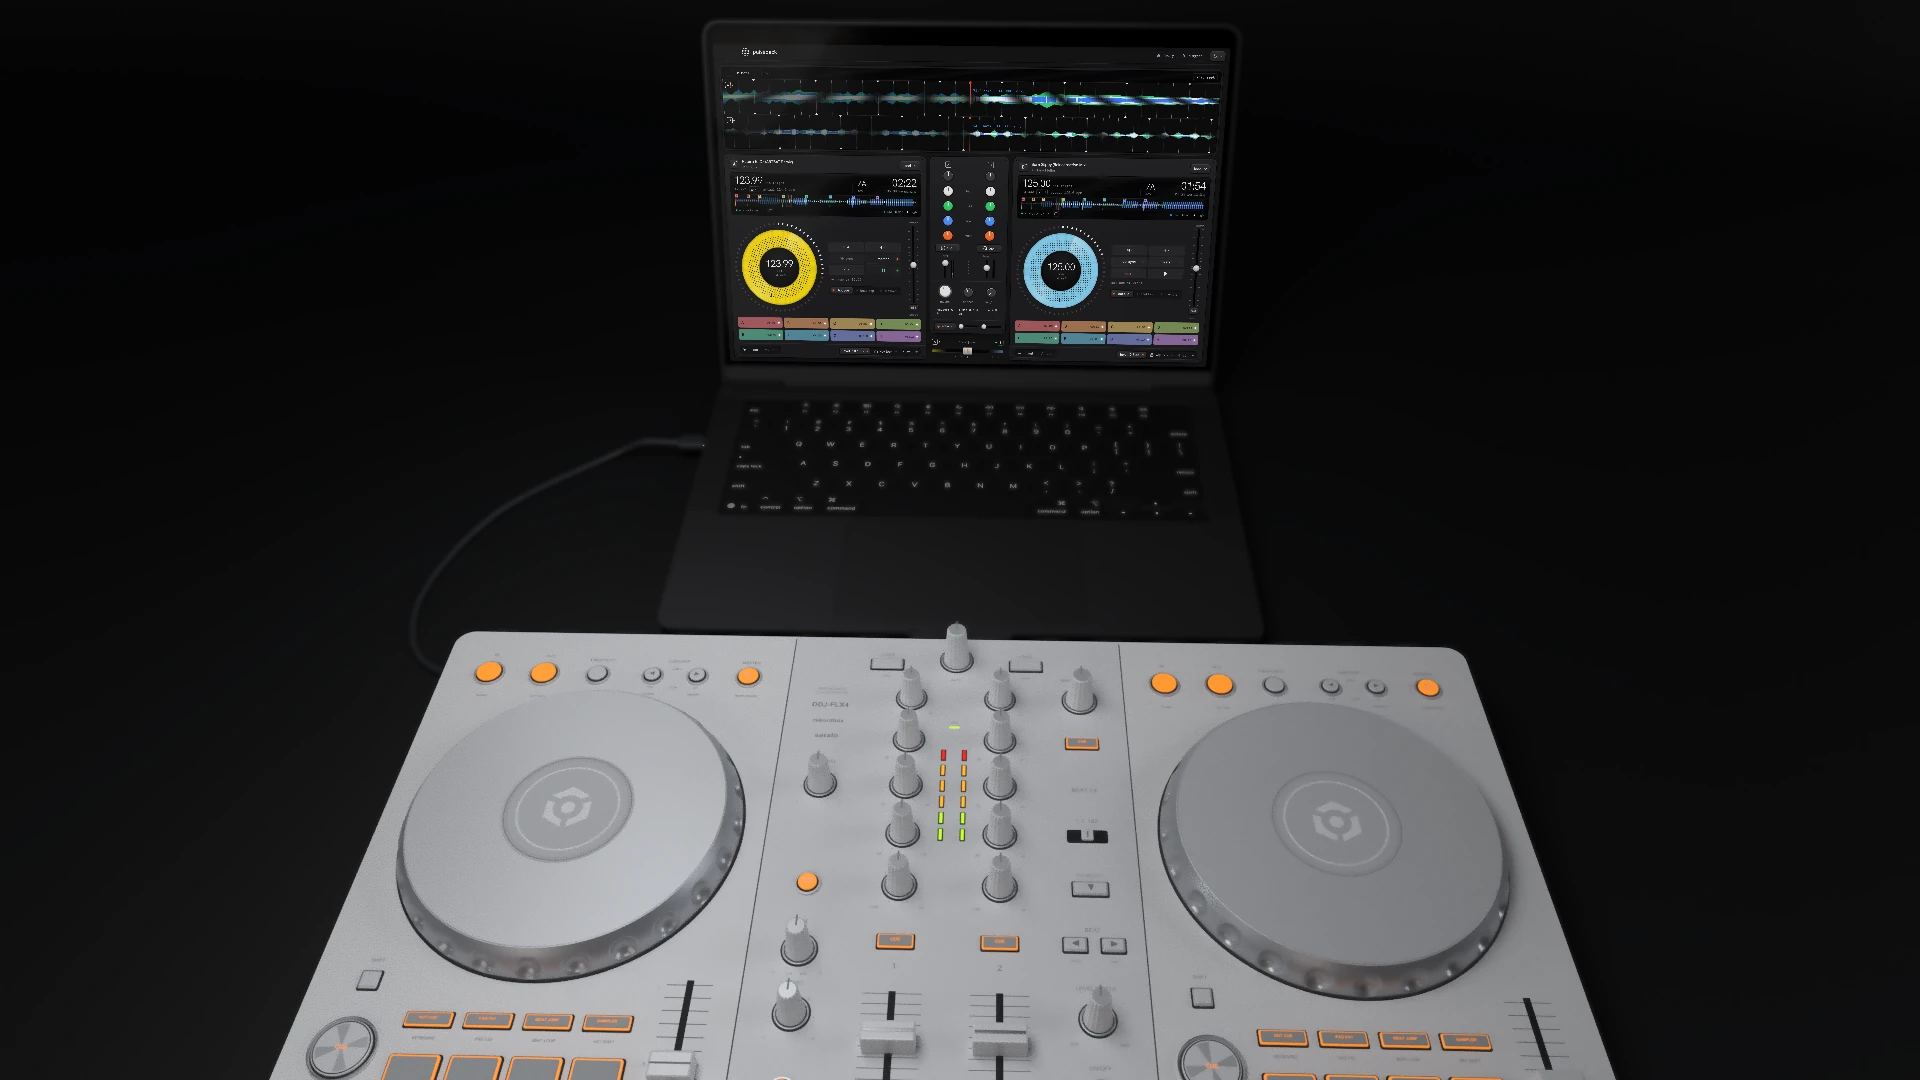
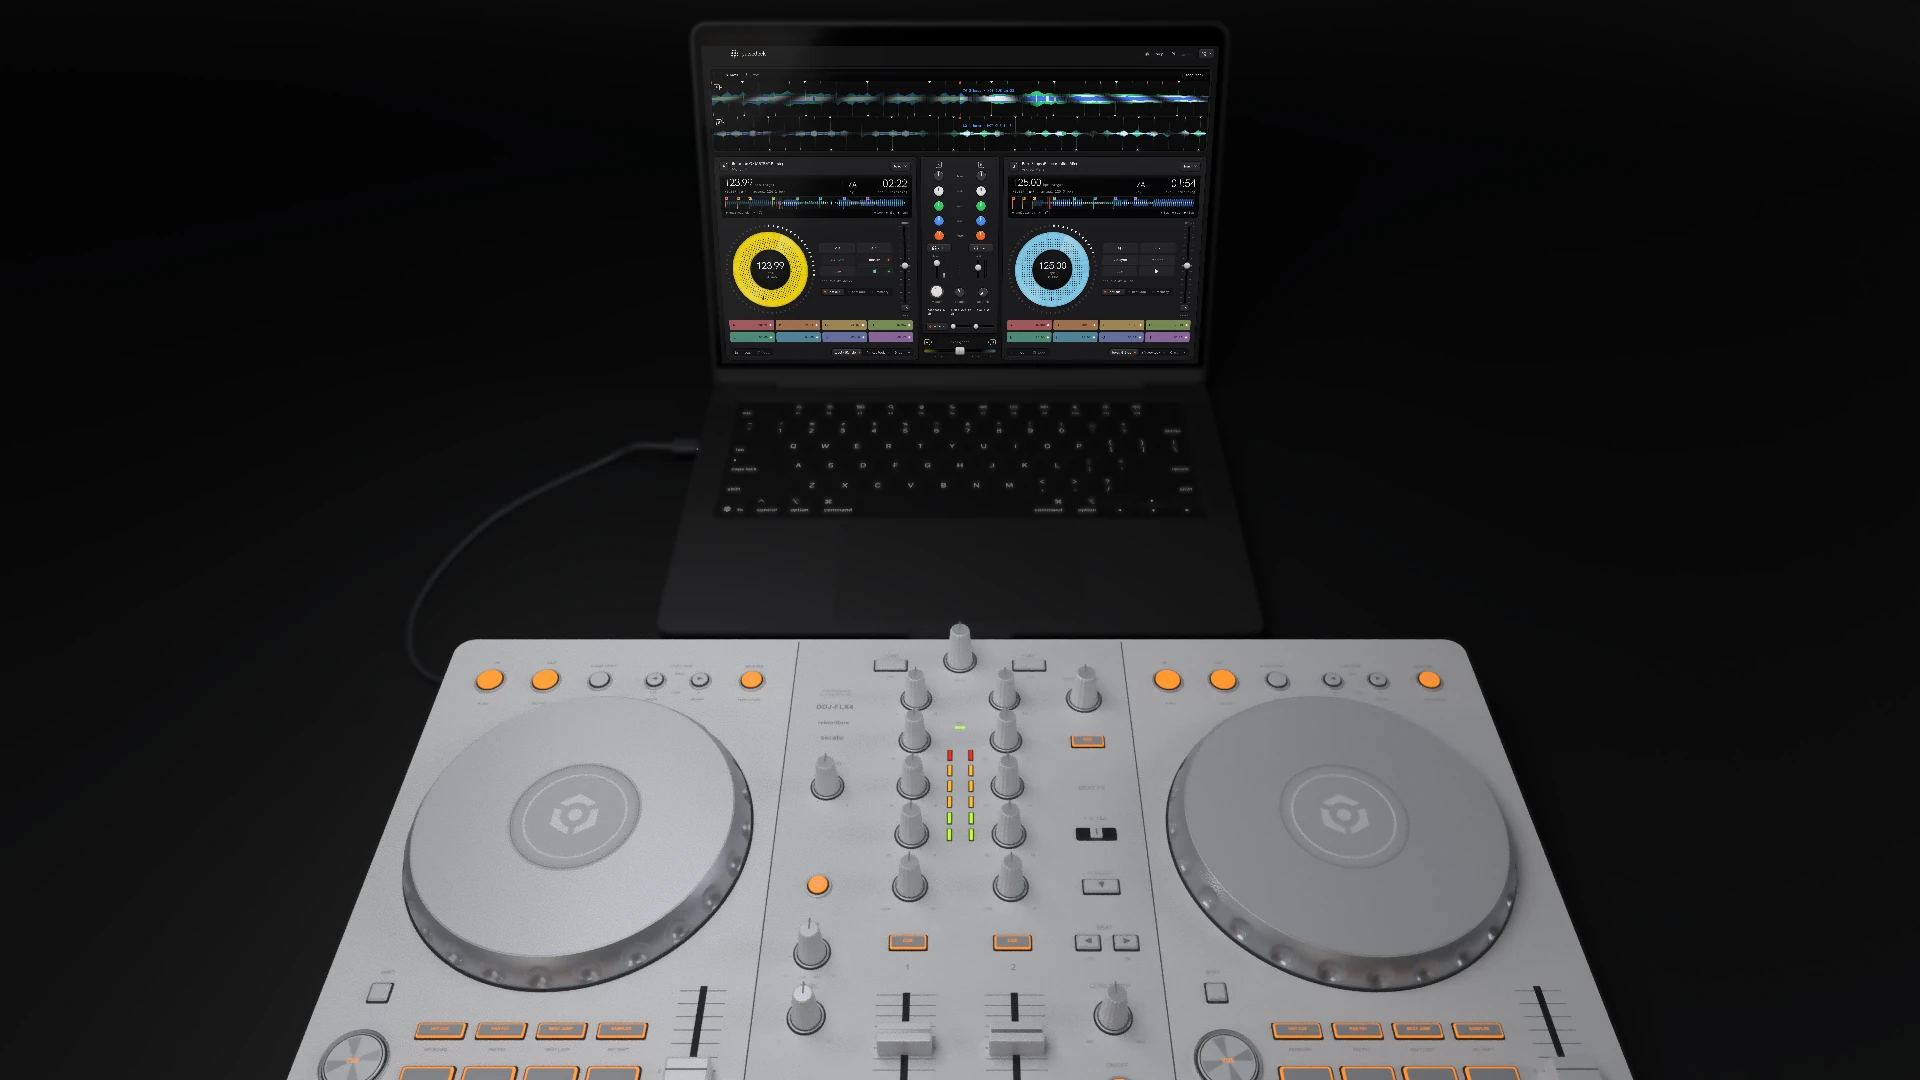
Center the controller render in a straight-on DJ view

diff --git a/docs/images/README.md b/docs/images/README.md
@@ -10,11 +10,11 @@ Seven feature views of the real PulseDeck production frontend, rendered with Thr
 | `04-mixer.webp` | EQ, filters, faders and effects |
 | `05-library.webp` | Local collection, metadata and tags |
 | `06-suggest.webp` | Ranked next moves and transition timing |
-| `07-controller.webp` | White DDJ-FLX4-W and Space Black MacBook from the DJ’s point of view |
+| `07-controller.webp` | White DDJ-FLX4-W and Space Black MacBook from a centered, straight-on DJ point of view |
 
 ## README delivery
 
-The repository contains seven **1920 × 1080 WebP images**, totaling **934 KB**. The first six were downsampled with Lanczos; the controller frame was rendered natively at 1080p. All are encoded at quality 90, method 6. Fine text and waveforms were visually compared with the downscaled source renders; the images use lossy compression and are intended for normal README display.
+The repository contains seven **1920 × 1080 WebP images**, totaling **937 KB**. The first six were downsampled with Lanczos; the controller frame was rendered natively at 1080p. All are encoded at quality 90, method 6. Fine text and waveforms were visually compared with the downscaled source renders; the images use lossy compression and are intended for normal README display.
 
 Inline images and click-through links use the same 1080p files. The 4K source renders are kept outside the tracked repository.
 
